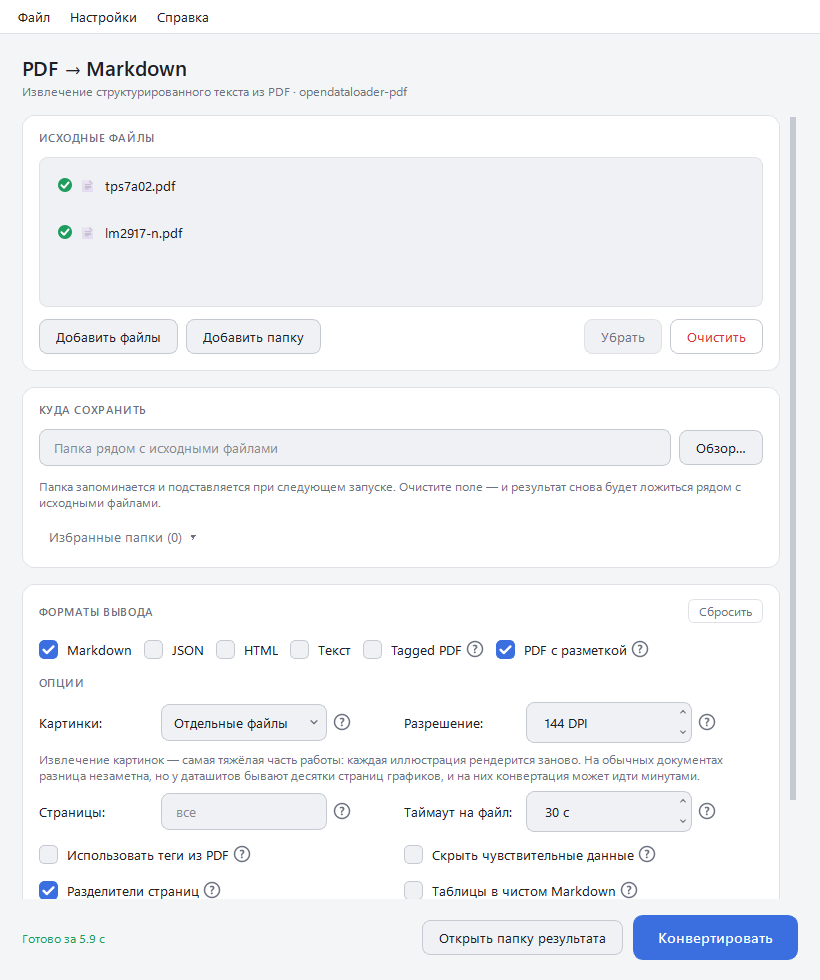
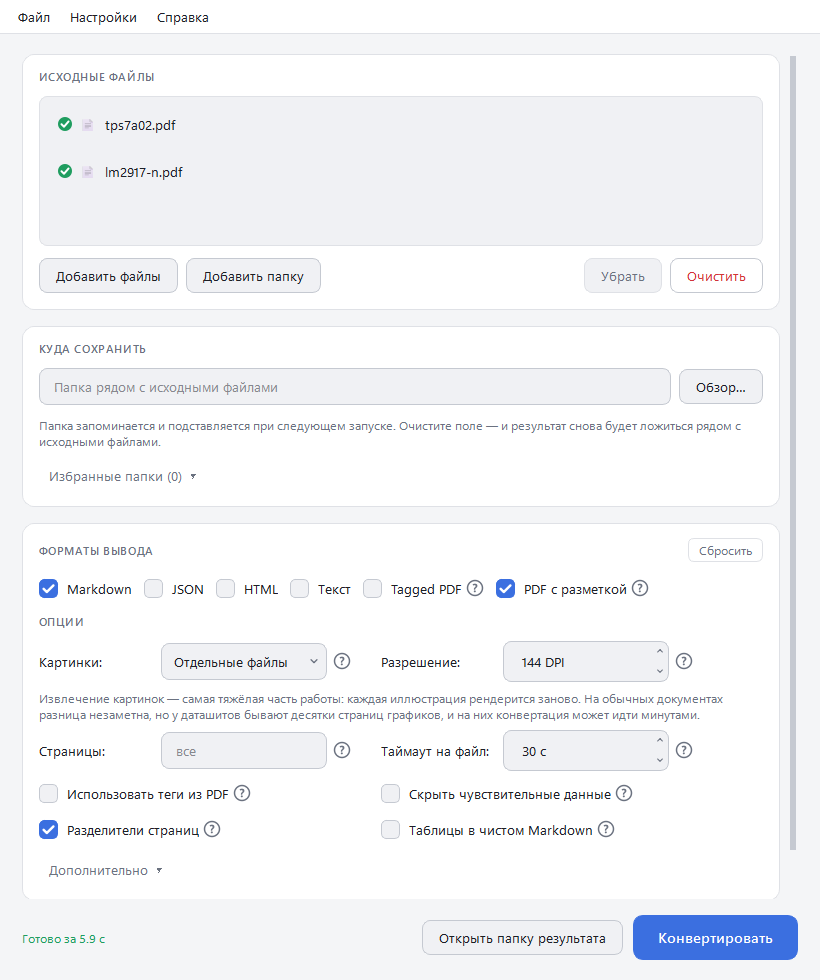
Columns hold together in a wide window; no title block; formats row tight
- The gap between the two option columns no longer stretches: in a
  maximised window it pushed the second column to mid-screen. Spare width
  goes to the right instead.
- Options and More options line up exactly: Qt drops the spacing next to an
  empty column, which put More options' second half 6 px to the left; a
  blank widget now keeps the gap column real. Checkboxes sit in a grid of
  their own, so a long checkbox text cannot push the boxes out of line.
- A setting with its (?) takes only its own width: "Annotated PDF" no
  longer drifts away from the other formats.
- The "PDF -> Markdown" title and subtitle are gone - the window title says
  it already. The new-version link moved to the right end of the menu bar.

diff --git a/gui.py b/gui.py
@@ -529,8 +529,9 @@ def with_help(widget: QWidget, key: str) -> QWidget:
     row.setSpacing(4)
     row.addWidget(widget)
     row.addWidget(HelpMark(tr(key)))
-    row.addStretch()
-    box.setSizePolicy(QSizePolicy.Policy.Preferred, QSizePolicy.Policy.Fixed)
+    # Only as wide as its contents: a block that grew took the spare room of
+    # its row, and the format after "Tagged PDF" drifted off to the right.
+    box.setSizePolicy(QSizePolicy.Policy.Fixed, QSizePolicy.Policy.Fixed)
     return box
 
 
@@ -541,23 +542,37 @@ FIELD_WIDTH = 166
 LABEL_MAX_WIDTH = 116
 
 
-def settings_grid(rows: list, checks: list, labels: list[QLabel]) -> QGridLayout:
-    """Two even columns: label, box, (?) | label, box, (?).
+GRID_SPACING = 6
+GAP_WIDTH = 18
+
+
+def settings_grid(
+    rows: list, checks: list, labels: list[QLabel], check_grids: list[QGridLayout]
+) -> QVBoxLayout:
+    """Two even columns: label, box, (?) | label, box, (?), checkboxes below.
 
     `rows` holds pairs of (label key, widget, help key) - either may be None -
     or a bare widget that spans the whole width. `checks` are (checkbox, help
-    key) pairs laid out two to a line, each starting where the labels start.
-    The labels are collected so the window can give them all one width, which
-    lines Options and More options up with each other.
+    key) pairs, two to a line, in a grid of their own: a long checkbox text
+    then cannot push the boxes above out of line. The labels and the checkbox
+    grids are collected so the window can size them once the font is known
+    (MainWindow._align_labels), which lines Options and More options up.
     """
     grid = QGridLayout()
     grid.setContentsMargins(0, 0, 0, 0)
-    grid.setHorizontalSpacing(6)
+    grid.setHorizontalSpacing(GRID_SPACING)
     grid.setVerticalSpacing(8)
     # 0 label, 1 box, 2 (?), 3 gap between the halves, 4 label, 5 box, 6 (?)
-    grid.setColumnMinimumWidth(3, 16)
-    grid.setColumnStretch(3, 1)
+    # The gap stays fixed and spare width goes to the right: in a maximised
+    # window a stretching gap pushed the second column off to mid-screen.
+    grid.setColumnMinimumWidth(3, GAP_WIDTH)
     grid.setColumnStretch(7, 1)
+    # Qt leaves out the spacing next to an empty column - a spacer item counts
+    # as empty too - so a grid without a full-width row put its second half
+    # 6 px further left than one with. A blank widget keeps the column real.
+    gap = QWidget()
+    gap.setFixedSize(GAP_WIDTH, 1)
+    grid.addWidget(gap, 0, 3)
     row = 0
     for item in rows:
         if isinstance(item, QWidget):
@@ -577,9 +592,21 @@ def settings_grid(rows: list, checks: list, labels: list[QLabel]) -> QGridLayout
             grid.addWidget(widget, row, base + 1)
             grid.addWidget(HelpMark(tr(help_key)), row, base + 2)
         row += 1
+    boxes = QGridLayout()
+    boxes.setContentsMargins(0, 0, 0, 0)
+    boxes.setHorizontalSpacing(0)
+    boxes.setVerticalSpacing(8)
+    boxes.setColumnStretch(2, 1)
     for i, (box, help_key) in enumerate(checks):
-        grid.addWidget(with_help(box, help_key), row + i // 2, (i % 2) * 4, 1, 3)
-    return grid
+        boxes.addWidget(with_help(box, help_key), i // 2, i % 2, Qt.AlignmentFlag.AlignLeft)
+    check_grids.append(boxes)
+
+    outer = QVBoxLayout()
+    outer.setContentsMargins(0, 0, 0, 0)
+    outer.setSpacing(8)
+    outer.addLayout(grid)
+    outer.addLayout(boxes)
+    return outer
 
 
 def eye_icon(open_: bool) -> QIcon:
@@ -738,6 +765,7 @@ class MainWindow(QWidget):
         self._guide: GuideDialog | None = None
         self.favorites = load_favorites()
         self._form_labels: list[QLabel] = []
+        self._check_grids: list[QGridLayout] = []
         self._build_ui()
         # What every option looks like untouched - the "Reset" buttons go back
         # to this. Taken before the saved settings are applied on top.
@@ -808,7 +836,6 @@ class MainWindow(QWidget):
         root.setContentsMargins(22, 20, 22, 20)
         root.setSpacing(16)
         root.setMenuBar(self._menu_bar())
-        root.addLayout(self._header())
         root.addWidget(scroll, 1)
         root.addLayout(self._action_bar())
         self._sync_actions()
@@ -822,30 +849,6 @@ class MainWindow(QWidget):
             # policy minus the wheel.
             widget.setFocusPolicy(Qt.FocusPolicy.StrongFocus)
 
-    def _header(self) -> QHBoxLayout:
-        title = QLabel(APP_NAME)
-        title.setObjectName("Title")
-        subtitle = QLabel(tr("app.subtitle"))
-        subtitle.setObjectName("Subtitle")
-
-        text = QVBoxLayout()
-        text.setSpacing(2)
-        text.addWidget(title)
-        text.addWidget(subtitle)
-
-        # Filled in by show_update() when a newer release turns up.
-        self.update_link = QLabel()
-        self.update_link.setObjectName("UpdateLink")
-        self.update_link.setTextFormat(Qt.TextFormat.RichText)
-        self.update_link.setOpenExternalLinks(True)
-        self.update_link.setToolTip(tr("update.link_tooltip"))
-        self.update_link.hide()
-
-        row = QHBoxLayout()
-        row.addLayout(text)
-        row.addStretch()
-        row.addWidget(self.update_link, 0, Qt.AlignmentFlag.AlignTop)
-        return row
 
     def _menu_bar(self) -> QMenuBar:
         """File, Settings and Help, the way a Windows program has them.
@@ -929,6 +932,16 @@ class MainWindow(QWidget):
         self.act_about = help_menu.addAction(
             tr("menu.about", app=APP_NAME), self._show_about
         )
+
+        # Filled in by show_update() when a newer release turns up; it sits
+        # at the right end of the menu bar, out of the way until then.
+        self.update_link = QLabel()
+        self.update_link.setObjectName("UpdateLink")
+        self.update_link.setTextFormat(Qt.TextFormat.RichText)
+        self.update_link.setOpenExternalLinks(True)
+        self.update_link.setToolTip(tr("update.link_tooltip"))
+        self.update_link.hide()
+        bar.setCornerWidget(self.update_link, Qt.Corner.TopRightCorner)
         return bar
 
     def _files_card(self) -> QFrame:
@@ -1029,6 +1042,7 @@ class MainWindow(QWidget):
                 (self.opt_plain_md, "plain_md.tooltip"),
             ],
             self._form_labels,
+            self._check_grids,
         )
 
         self.more_btn = QPushButton(tr("advanced.button") + "  ▾")
@@ -1119,6 +1133,7 @@ class MainWindow(QWidget):
                 (self.opt_strikethrough, "strikethrough.tooltip"),
             ],
             self._form_labels,
+            self._check_grids,
         )
         outer = QVBoxLayout(panel)
         outer.setContentsMargins(0, 0, 0, 0)
@@ -1717,6 +1732,11 @@ class MainWindow(QWidget):
         width = min(LABEL_MAX_WIDTH, max(widths) + 2)
         for label in self._form_labels:
             label.setFixedWidth(width)
+        # The right-hand checkboxes start where the right-hand labels do:
+        # label, box, (?), the gap, and the spacing between those four.
+        half = width + FIELD_WIDTH + HelpMark.SIZE + GAP_WIDTH + 4 * GRID_SPACING
+        for grid in self._check_grids:
+            grid.setColumnMinimumWidth(0, half)
 
     def _sync_format_options(self, *_) -> None:
         """Grey out what the ticked formats would ignore."""

diff --git a/tests/test_settings_ux.py b/tests/test_settings_ux.py
@@ -461,3 +461,30 @@ def test_both_are_remembered_and_reset(qapp, settings_file):
 
     again.reset_main_btn.click()
     assert again.opt_page_sep.isChecked() and not again.opt_plain_md.isChecked()
+
+
+# -- two even columns ----------------------------------------------------------------------- #
+
+
+@pytest.mark.parametrize("width", [760, 1900])
+def test_options_and_more_options_line_up(window, width):
+    """Same box size everywhere, and both sections' columns at the same x -
+    in a narrow window and in a maximised one."""
+    from PySide6.QtWidgets import QGridLayout
+
+    window.more_btn.setChecked(True)
+    window.resize(width, 900)
+    window.show()
+    QApplication.processEvents()
+    grids = [g for g in window.findChildren(QGridLayout) if g.columnCount() >= 8]
+    assert len(grids) == 2
+
+    starts = [[g.cellRect(0, c).x() for c in range(7)] for g in grids]
+    assert starts[0] == starts[1]
+    boxes = [window.image_mode, window.image_dpi, window.pages_edit, window.timeout_spin,
+             window.reading_order, window.table_method, window.image_format,
+             window.threads_spin, window.password_edit, window.hybrid,
+             window.space_ratio, window.hybrid_url]
+    assert {b.width() for b in boxes} == {gui.FIELD_WIDTH}
+    # The second half sits right after the first: spare width goes to the right.
+    assert starts[0][4] - (starts[0][2] + 18) <= 40

diff --git a/theme.py b/theme.py
@@ -169,21 +169,11 @@ QDialog {{
 
 /* ---- Header ---- */
 
-QLabel#Title {{
-    font-size: 20px;
-    font-weight: 600;
-    letter-spacing: -0.2px;
-}}
-
-QLabel#Subtitle {{
-    font-size: 12px;
-    color: {p['text_muted']};
-}}
-
 QLabel#UpdateLink {{
     background: {p['accent_soft']};
-    border-radius: 12px;
-    padding: 4px 12px;
+    border-radius: 10px;
+    padding: 2px 10px;
+    margin: 3px 4px;
     font-weight: 600;
 }}
 
